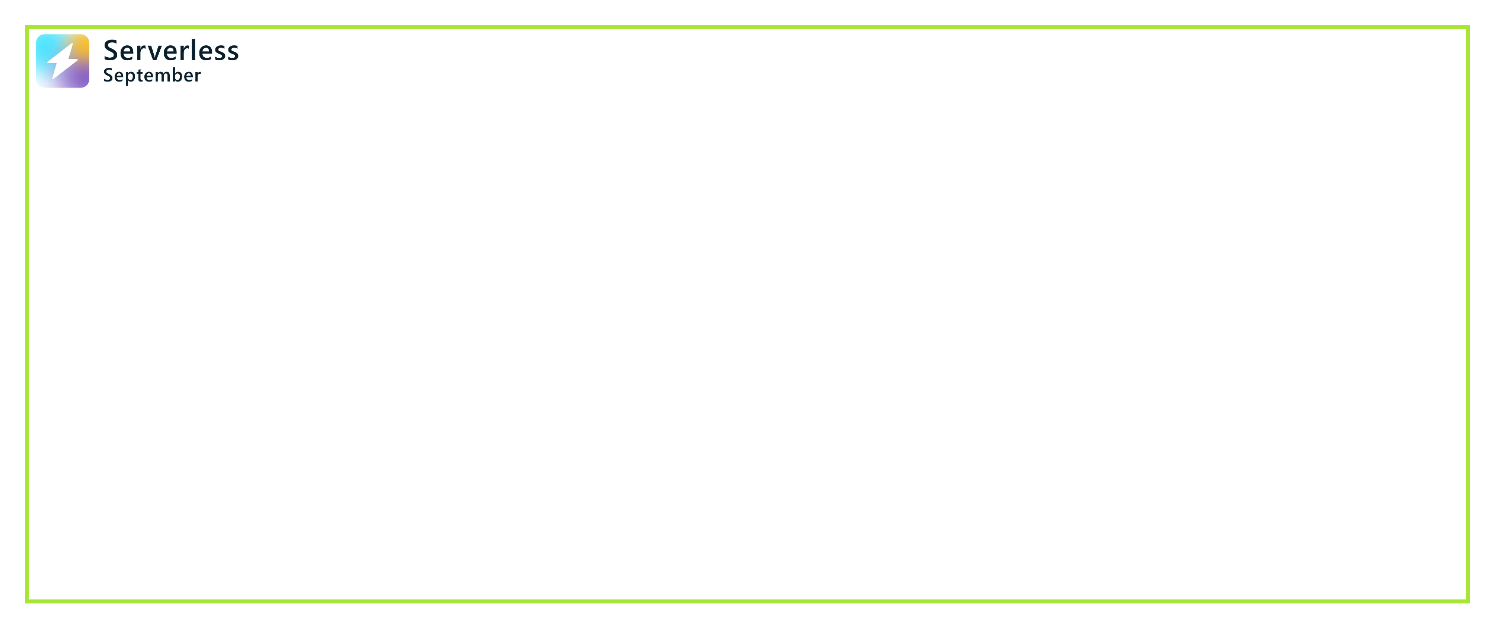
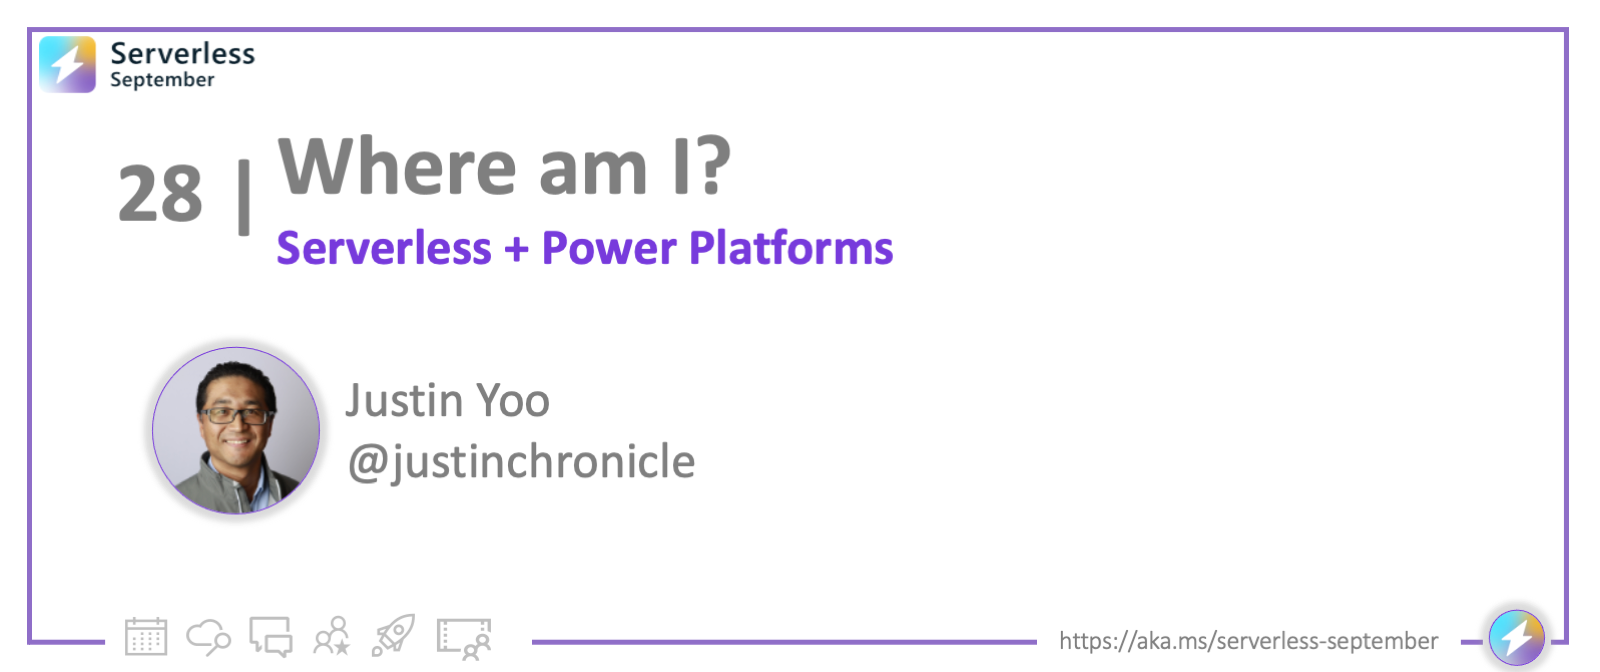
Fix #49

Changed region(s): [[0.0, 0.0302, 0.9813, 1.0], [0.0613, 0.181, 0.5827, 0.3921], [0.092, 0.4825, 0.4293, 0.7841]]

diff --git a/website/blog/2022-09-28/index.md b/website/blog/2022-09-28/index.md
@@ -1,8 +1,8 @@
 ---
 slug: 28-where-am-i
-title: 28. Where am I? My GPS Location with Serverless Power Platform Custom Connector
+title: 28. Serverless + Power Platforms
 authors: [justin]
-draft: true
+draft: false
 hide_table_of_contents: false
 toc_min_heading_level: 2
 toc_max_heading_level: 3
@@ -32,9 +32,11 @@ tags: [serverless-september, 30-days-of-serverless, azure-functions, openapi, po
 
 ---
 
-Welcome to `Day 28` of #30DaysOfServerless! Since it's the serverless end-to-end week, I'm going to discuss how to use a serverless application &ndash; [Azure Functions][az fncapp] with [OpenAPI extension][gh az fncapp openapi] &ndash; to be seamlessly integrated with [Power Platform custom connector][pp cuscon] through [Azure API Management][az apim].
+Welcome to `Day 28` of #30DaysOfServerless! 
 
-> You might like to have a look at this [sample app on GitHub repository][gh sample] used in this post.
+Since it's the serverless end-to-end week, I'm going to discuss how to use a serverless application &ndash; [Azure Functions][az fncapp] with [OpenAPI extension][gh az fncapp openapi] &ndash; to be seamlessly integrated with [Power Platform custom connector][pp cuscon] through [Azure API Management][az apim] - in a post I call *"Where am I? My GPS Location with Serverless Power Platform Custom Connector"*
+
+OK. Are you ready? Let's get started!
 
 ---
 
@@ -52,7 +54,10 @@ Welcome to `Day 28` of #30DaysOfServerless! Since it's the serverless end-to-end
 
 ---
 
-OK. Are you ready? Let's get started!
+:::info SAMPLE REPO
+Want to follow along? Check out the [sample app on GitHub repository][gh sample] used in this post.
+:::
+
 
 
 ## What is Power Platform custom connector?
